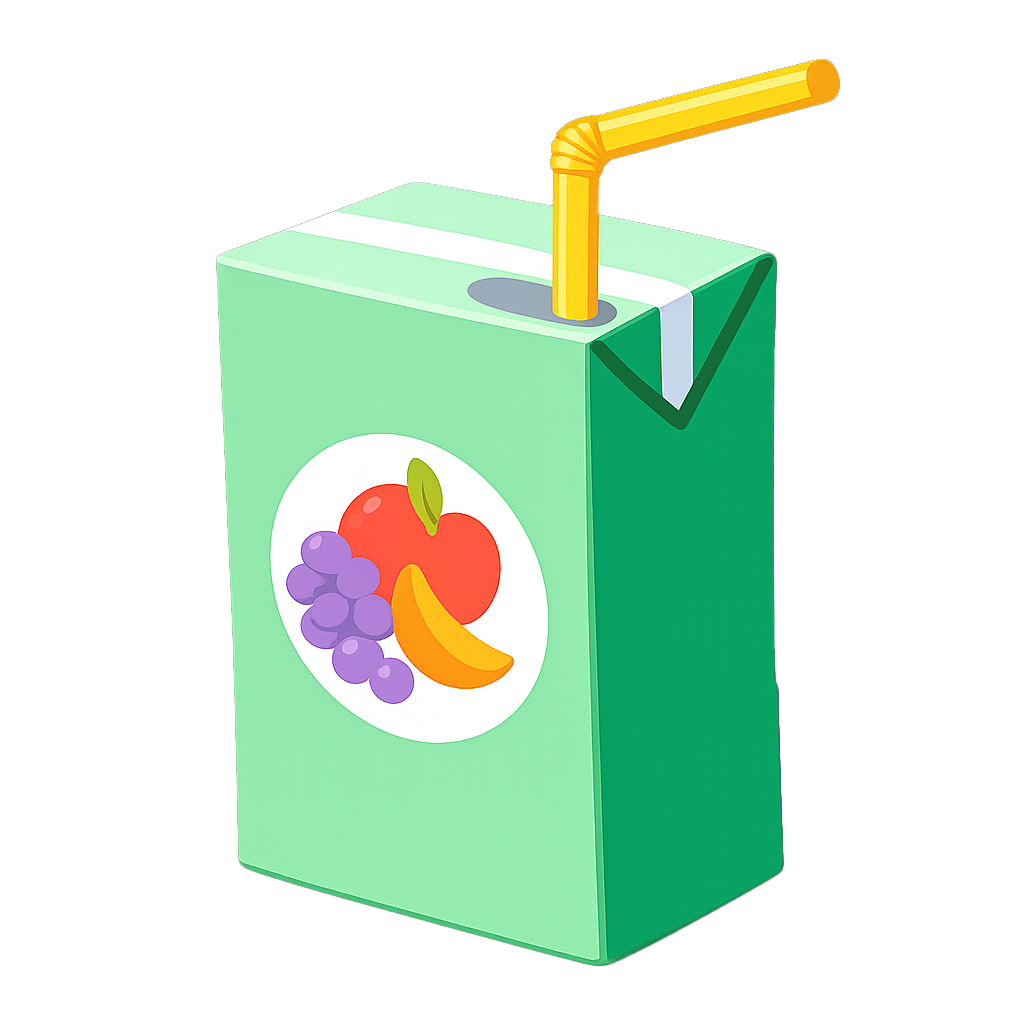
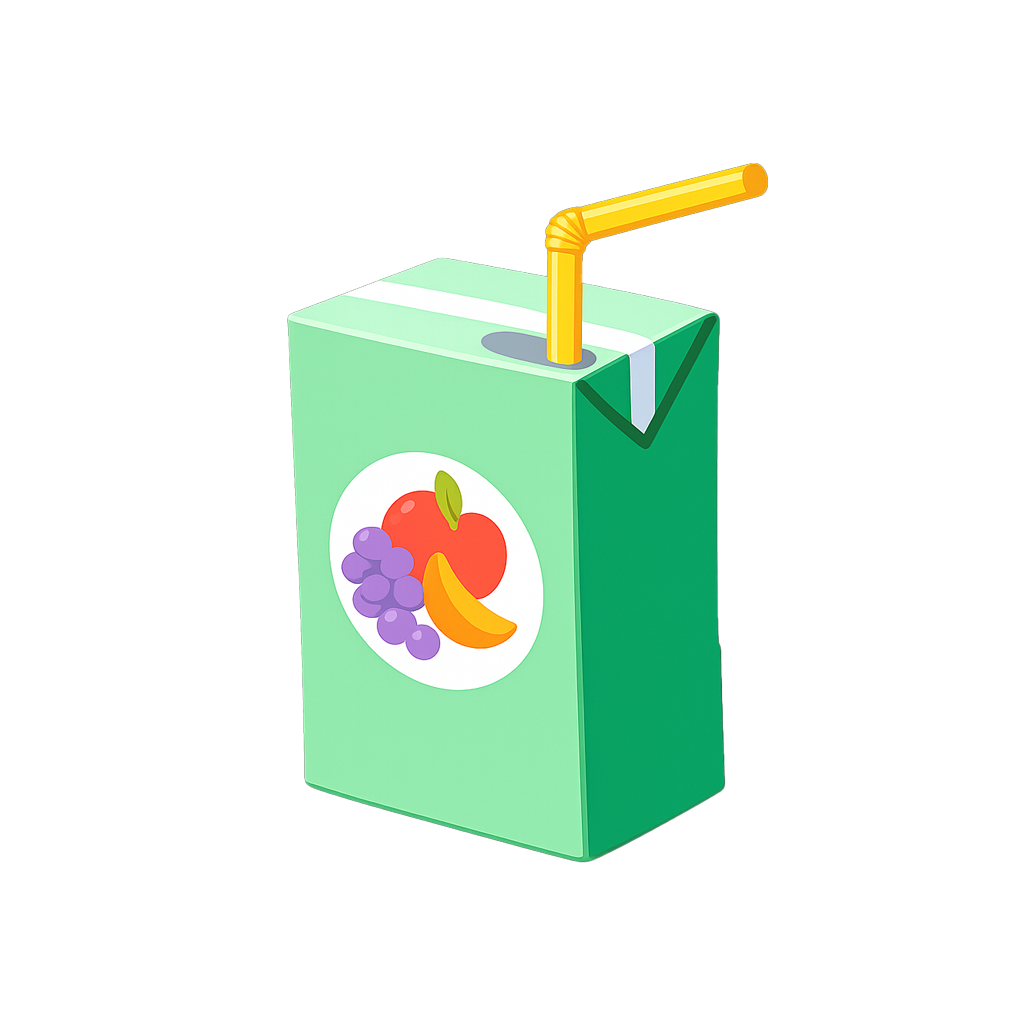
mobile app updates

Changed region(s): [[0.1875, 0.0312, 0.8438, 0.9688]]

diff --git a/loader.js b/loader.js
@@ -8,7 +8,7 @@
  *  Flow: index.html loads version.js and loader.js with ?v=<hash> (injected at deploy).
  *  version.js defines CACHE_BUST → loader.js runs → injects <link> and <script> tags
  *  with ?v=CACHE_BUST → scripts run in order via onload
- *  chaining → when done, cache-busts static images (tab icon, apple-touch-icon,
+ *  chaining → when done, cache-busts static images (favicon / tab icon, apple-touch-icon,
  *  manifest, mode icons, juicebox button image).
  *
  *  Add new modes: push path to SCRIPTS before app.js.
@@ -54,7 +54,7 @@
             /* All scripts loaded. Add ?v= to static img/link in HTML (Juice Box button image, mode icons). */
             if (typeof withCacheBust === 'function') {
                 document.querySelectorAll('link[rel="icon"]').forEach(function (el) {
-                    var raw = el.getAttribute('href') || 'app-icon.png';
+                    var raw = el.getAttribute('href') || 'sprites/juice-box.png';
                     var path = raw.split('?')[0];
                     el.href = withCacheBust(path);
                 });

diff --git a/index.html b/index.html
@@ -19,7 +19,7 @@
     <meta name="twitter:description" content="Practice supersight! Discover and match sprites. A juicy, accessible experience.">
     <meta name="twitter:image" content="https://juiceboxgame.com/link-preview.png">
 
-    <meta name="theme-color" content="#FFB3BA">
+    <meta name="theme-color" content="#9AE6B5">
     <link rel="canonical" href="https://juiceboxgame.com/">
 
     <!-- Disable caching: ensure changes propagate immediately on GitHub Pages -->
@@ -28,8 +28,8 @@
     <meta http-equiv="Expires" content="0">
 
     <title>Juice Box</title>
-    <!-- Tab + home-screen icon (same asset as manifest): cache-busted by loader.js after scripts load -->
-    <link rel="icon" href="app-icon.png" type="image/png">
+    <!-- Tab favicon: juice box sprite (transparent). Apple / PWA shortcut still uses full app-icon. -->
+    <link rel="icon" href="sprites/juice-box.png" type="image/png">
     <link rel="apple-touch-icon" href="app-icon.png">
     <link rel="manifest" href="manifest.json">
     <!-- Google Fonts: Cherry Bomb One (used throughout the app) -->

diff --git a/README.md b/README.md
@@ -14,7 +14,7 @@ Practice supersight! Discover and match sprites. A juicy, accessible experience.
 
 The site deploys via **GitHub Actions** when pushed to `main`. No local build step needed.
 
-**Cache busting:** On each deploy, `scripts/inject-version.cjs` runs and injects the current git commit hash (short) into `version.js`, `index.html`, and `manifest.json` (icon URLs). In `index.html`, the hash is added to bootstrap scripts (`version.js`, `loader.js`), `manifest.json`, `app-icon.png` links (tab + apple-touch icon), and the Open Graph / Twitter preview image URL. After scripts load, `loader.js` appends `?v=` (from `CACHE_BUST` in `version.js`, or a timestamp fallback) to CSS, JS, sprites, audio, and `link` tags for the icon, apple-touch icon, and manifest so local runs without inject still bust caches. Fresh assets load after every deploy.
+**Cache busting:** On each deploy, `scripts/inject-version.cjs` runs and injects the current git commit hash (short) into `version.js`, `index.html`, and `manifest.json` (icon URLs). In `index.html`, the hash is added to bootstrap scripts (`version.js`, `loader.js`), `manifest.json`, `sprites/juice-box.png` (tab favicon) and `app-icon.png` (apple-touch) links, and the Open Graph / Twitter preview image URL. After scripts load, `loader.js` appends `?v=` (from `CACHE_BUST` in `version.js`, or a timestamp fallback) to CSS, JS, sprites, audio, and `link` tags for the icon, apple-touch icon, and manifest so local runs without inject still bust caches. Fresh assets load after every deploy.
 
 **Requirements:**
 - Repo Settings → Pages → Source: **GitHub Actions**
